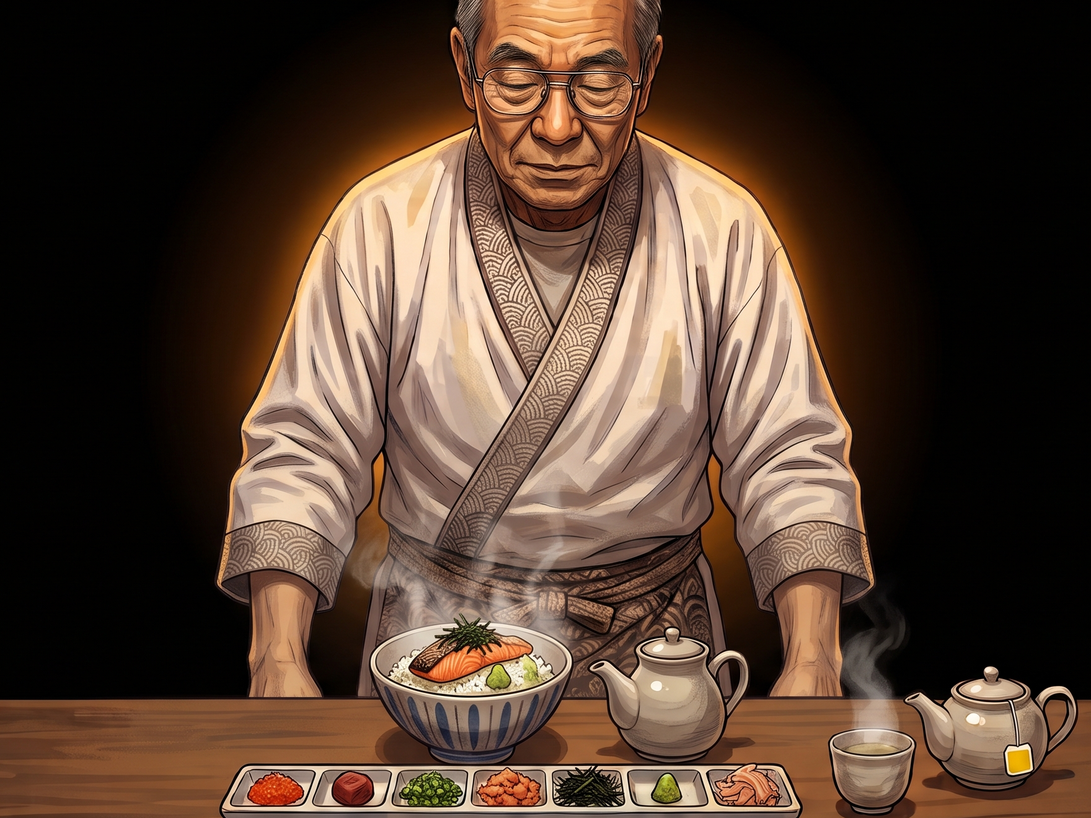
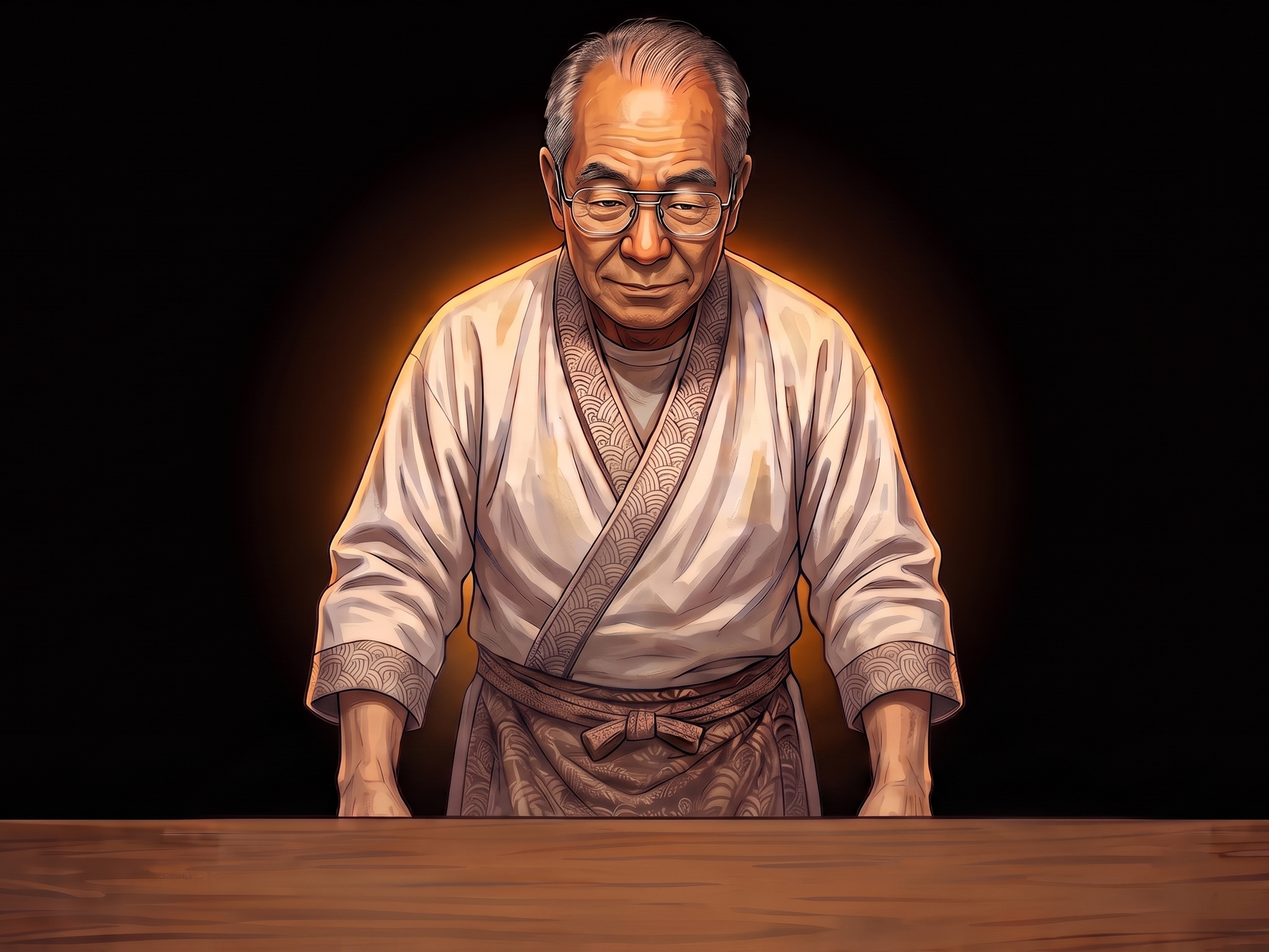
「ヤッホー」親父の通常時/やっほー時の画像を差し替え、通常顔のフェイント演出を廃止する
通常顔は2枚のバリエーション(チラチラ切り替え)をやめて1枚に統一する。

diff --git a/src/game/look_away.rs b/src/game/look_away.rs
@@ -106,9 +106,8 @@ pub const EATING_TEXT: &str = "むしゃむしゃ...";
 pub const WATCHING_TEXT: &str = "様子を見ている";
 
 /// 画像アセット(assets/image/からの相対パス)。無ければテキストで描く
-/// 通常時(何もしていない)の顔の候補。待機中は一定間隔でランダムに切り替え、
-/// 目を開けたり閉じたりするフェイントを演出する(NORMAL_FEINT_RATEの確率で2枚目)
-pub const STAGE_NORMAL_IMAGES: [&str; 2] = ["look_away/normal.png", "look_away/normal_feint.png"];
+/// 通常時(何もしていない)の顔
+pub const STAGE_NORMAL_IMAGE: &str = "look_away/normal.png";
 /// 右を指して叫んでいる絵の候補(1問ごとにランダムに1枚選ぶ)
 pub const STAGE_SHOUT_RIGHT_IMAGES: [&str; 2] =
     ["look_away/shout_right.png", "look_away/shout_right_2.png"];
@@ -117,10 +116,6 @@ pub const STAGE_SHOUT_LEFT_IMAGES: [&str; 2] =
     ["look_away/shout_left.png", "look_away/shout_left_2.png"];
 /// 「やっほー」と呼びかけている絵
 pub const STAGE_YAHHO_IMAGE: &str = "look_away/yahho.png";
-/// 通常時の顔でフェイント(2枚目、目を閉じた顔)が選ばれる確率
-pub const NORMAL_FEINT_RATE: f64 = 0.2;
-/// 通常時の顔がランダムに切り替わる間隔の範囲(ms)。この間隔でチラチラと表情を変える
-pub const NORMAL_FLICKER_MS: (u64, u64) = (400, 900);
 
 /// プレイヤー自身を映した絵。カウンター越しの親父とは別に、画面のもう半分に表示する
 pub const PLAYER_EATING_IMAGE: &str = "look_away/player_eating.png";
@@ -231,15 +226,11 @@ fn random_between(rng: &mut impl Rng, (min_ms, max_ms): (u64, u64)) -> Duration 
     Duration::from_millis(rng.gen_range(min_ms..=max_ms))
 }
 
-/// 待機(Idle)フェーズを新しく作る。通常顔のバリエーションとフェイントの
-/// 次回切り替えまでの間隔をここでランダムに決める
+/// 待機(Idle)フェーズを新しく作る
 fn new_idle_phase(remaining: Duration, is_eating: bool) -> Phase {
-    let mut rng = rand::thread_rng();
     Phase::Idle {
         remaining,
         is_eating,
-        normal_variant: choose_normal_variant(&mut rng),
-        flicker_remaining: random_between(&mut rng, NORMAL_FLICKER_MS),
     }
 }
 
@@ -249,15 +240,6 @@ fn choose_event(rng: &mut impl Rng) -> Event {
         Event::Yahho
     } else {
         Event::Shout(Side::random(rng))
-    }
-}
-
-/// 通常時の顔バリエーションをランダムに選ぶ(NORMAL_FEINT_RATEの確率でフェイント顔=1)
-fn choose_normal_variant(rng: &mut impl Rng) -> usize {
-    if rng.gen_bool(NORMAL_FEINT_RATE) {
-        1
-    } else {
-        0
     }
 }
 
@@ -455,12 +437,9 @@ enum Phase {
     /// 問題冒頭の「3.2.1.GO!!」。この間の入力は受け付けない
     Countdown { state: CountdownState },
     /// 相手が何もしていない待機。残りの待機時間と、食事中かどうか。
-    /// normal_variant/flicker_remainingは通常顔のフェイント(チラチラ切り替え)用
     Idle {
         remaining: Duration,
         is_eating: bool,
-        normal_variant: usize,
-        flicker_remaining: Duration,
     },
     /// 指さして「ヤー!!」と叫んでいる。残りの入力受付時間(MAX_RESPONSE_WINDOWから減っていく)。
     /// variantは叫び顔の絵のバリエーション番号(begin_event時にランダムに決め、以後は固定)
@@ -752,8 +731,6 @@ impl LookAwayGame {
             Phase::Idle {
                 remaining,
                 is_eating,
-                normal_variant,
-                flicker_remaining,
             } => {
                 if *is_eating {
                     self.rice = (self.rice - RICE_DRAIN_PER_SEC * dt.as_secs_f32()).max(0.0);
@@ -770,12 +747,6 @@ impl LookAwayGame {
                         };
                         return;
                     }
-                }
-                *flicker_remaining = flicker_remaining.saturating_sub(dt);
-                if flicker_remaining.is_zero() {
-                    let mut rng = rand::thread_rng();
-                    *normal_variant = choose_normal_variant(&mut rng);
-                    *flicker_remaining = random_between(&mut rng, NORMAL_FLICKER_MS);
                 }
                 *remaining = remaining.saturating_sub(dt);
                 if remaining.is_zero() {
@@ -849,11 +820,7 @@ impl LookAwayGame {
                 judge_stamp,
                 ..
             } => self.render_result(frame, area, *is_correct, *message, *judge_stamp),
-            Phase::Idle {
-                is_eating,
-                normal_variant,
-                ..
-            } => {
+            Phase::Idle { is_eating, .. } => {
                 let (background, status_text) = if *is_eating {
                     (EATING_BG, EATING_TEXT)
                 } else {
@@ -864,7 +831,7 @@ impl LookAwayGame {
                     area,
                     background,
                     theme::TEXT,
-                    StageKind::Normal(*normal_variant),
+                    StageKind::Normal,
                     vec![pointing_line(None), String::new(), status_text.to_string()],
                 )
             }
@@ -1114,19 +1081,18 @@ fn detect_picker() -> Option<Picker> {
         .cloned()
 }
 
-/// カウンター越しの親父の絵の種類。Normalの引数は通常顔のバリエーション番号(フェイント用)、
-/// ShoutLeft/ShoutRightの引数は叫び顔のバリエーション番号
+/// カウンター越しの親父の絵の種類。ShoutLeft/ShoutRightの引数は叫び顔のバリエーション番号
 #[derive(Debug, Clone, Copy, PartialEq, Eq)]
 enum StageKind {
-    Normal(usize),
+    Normal,
     ShoutLeft(usize),
     ShoutRight(usize),
     Yahho,
 }
 
-/// 親父の静止画(通常の複数バリエーション/ヤー左右の複数バリエーション/やっほー)
+/// 親父の静止画(通常/ヤー左右の複数バリエーション/やっほー)
 struct StageImages {
-    normal: Vec<StatefulProtocol>,
+    normal: StatefulProtocol,
     shout_left: Vec<StatefulProtocol>,
     shout_right: Vec<StatefulProtocol>,
     yahho: StatefulProtocol,
@@ -1163,10 +1129,7 @@ impl StageRenderer {
     fn new() -> Self {
         let picker = detect_picker();
         let images = picker.clone().and_then(|picker| {
-            let normal: Option<Vec<_>> = STAGE_NORMAL_IMAGES
-                .iter()
-                .map(|path| splash::load_embedded_image(path))
-                .collect();
+            let normal = splash::load_embedded_image(STAGE_NORMAL_IMAGE)?;
             let yahho = splash::load_embedded_image(STAGE_YAHHO_IMAGE)?;
             let shout_right: Option<Vec<_>> = STAGE_SHOUT_RIGHT_IMAGES
                 .iter()
@@ -1176,14 +1139,10 @@ impl StageRenderer {
                 .iter()
                 .map(|path| splash::load_embedded_image(path))
                 .collect();
-            let normal = normal?;
             let shout_right = shout_right?;
             let shout_left = shout_left?;
             Some(RefCell::new(StageImages {
-                normal: normal
-                    .into_iter()
-                    .map(|img| picker.new_resize_protocol(img))
-                    .collect(),
+                normal: picker.new_resize_protocol(normal),
                 shout_left: shout_left
                     .into_iter()
                     .map(|img| picker.new_resize_protocol(img))
@@ -1258,7 +1217,7 @@ impl StageRenderer {
         }
         let mut images = images.borrow_mut();
         let protocol = match kind {
-            StageKind::Normal(i) => &mut images.normal[i],
+            StageKind::Normal => &mut images.normal,
             StageKind::ShoutLeft(i) => &mut images.shout_left[i],
             StageKind::ShoutRight(i) => &mut images.shout_right[i],
             StageKind::Yahho => &mut images.yahho,
@@ -1758,40 +1717,6 @@ mod tests {
                 "{side:?}を指して叫ぶ"
             );
         }
-    }
-
-    #[test]
-    fn choose_normal_variant_is_mostly_the_default_face() {
-        let mut rng = StdRng::seed_from_u64(7);
-        let variants: Vec<usize> = (0..1000).map(|_| choose_normal_variant(&mut rng)).collect();
-        let feint_count = variants.iter().filter(|&&v| v == 1).count();
-        // 1000回中の目安200回(20%)。乱数のゆれを見込んで幅を持たせる
-        assert!(
-            (140..=260).contains(&feint_count),
-            "フェイント顔の出現数: {feint_count}"
-        );
-        assert!(variants.contains(&0), "通常顔も出る");
-    }
-
-    #[test]
-    fn idle_flicker_remaining_resets_after_reaching_zero() {
-        let mut game = LookAwayGame::new();
-        finish_countdown(&mut game);
-        let Phase::Idle {
-            flicker_remaining, ..
-        } = game.phase
-        else {
-            panic!("待機のはず")
-        };
-        game.update(flicker_remaining);
-        let Phase::Idle {
-            flicker_remaining: after,
-            ..
-        } = game.phase
-        else {
-            panic!("待機のはず")
-        };
-        assert!(after > Duration::ZERO, "0になったら即座に新しい間隔が設定される");
     }
 
     // --- カウントダウン ---
@@ -2316,8 +2241,7 @@ mod tests {
 
     #[test]
     fn stage_images_are_embedded_and_decodable() {
-        let mut paths = vec![STAGE_YAHHO_IMAGE];
-        paths.extend(STAGE_NORMAL_IMAGES);
+        let mut paths = vec![STAGE_YAHHO_IMAGE, STAGE_NORMAL_IMAGE];
         paths.extend(STAGE_SHOUT_RIGHT_IMAGES);
         paths.extend(STAGE_SHOUT_LEFT_IMAGES);
         for path in paths {
